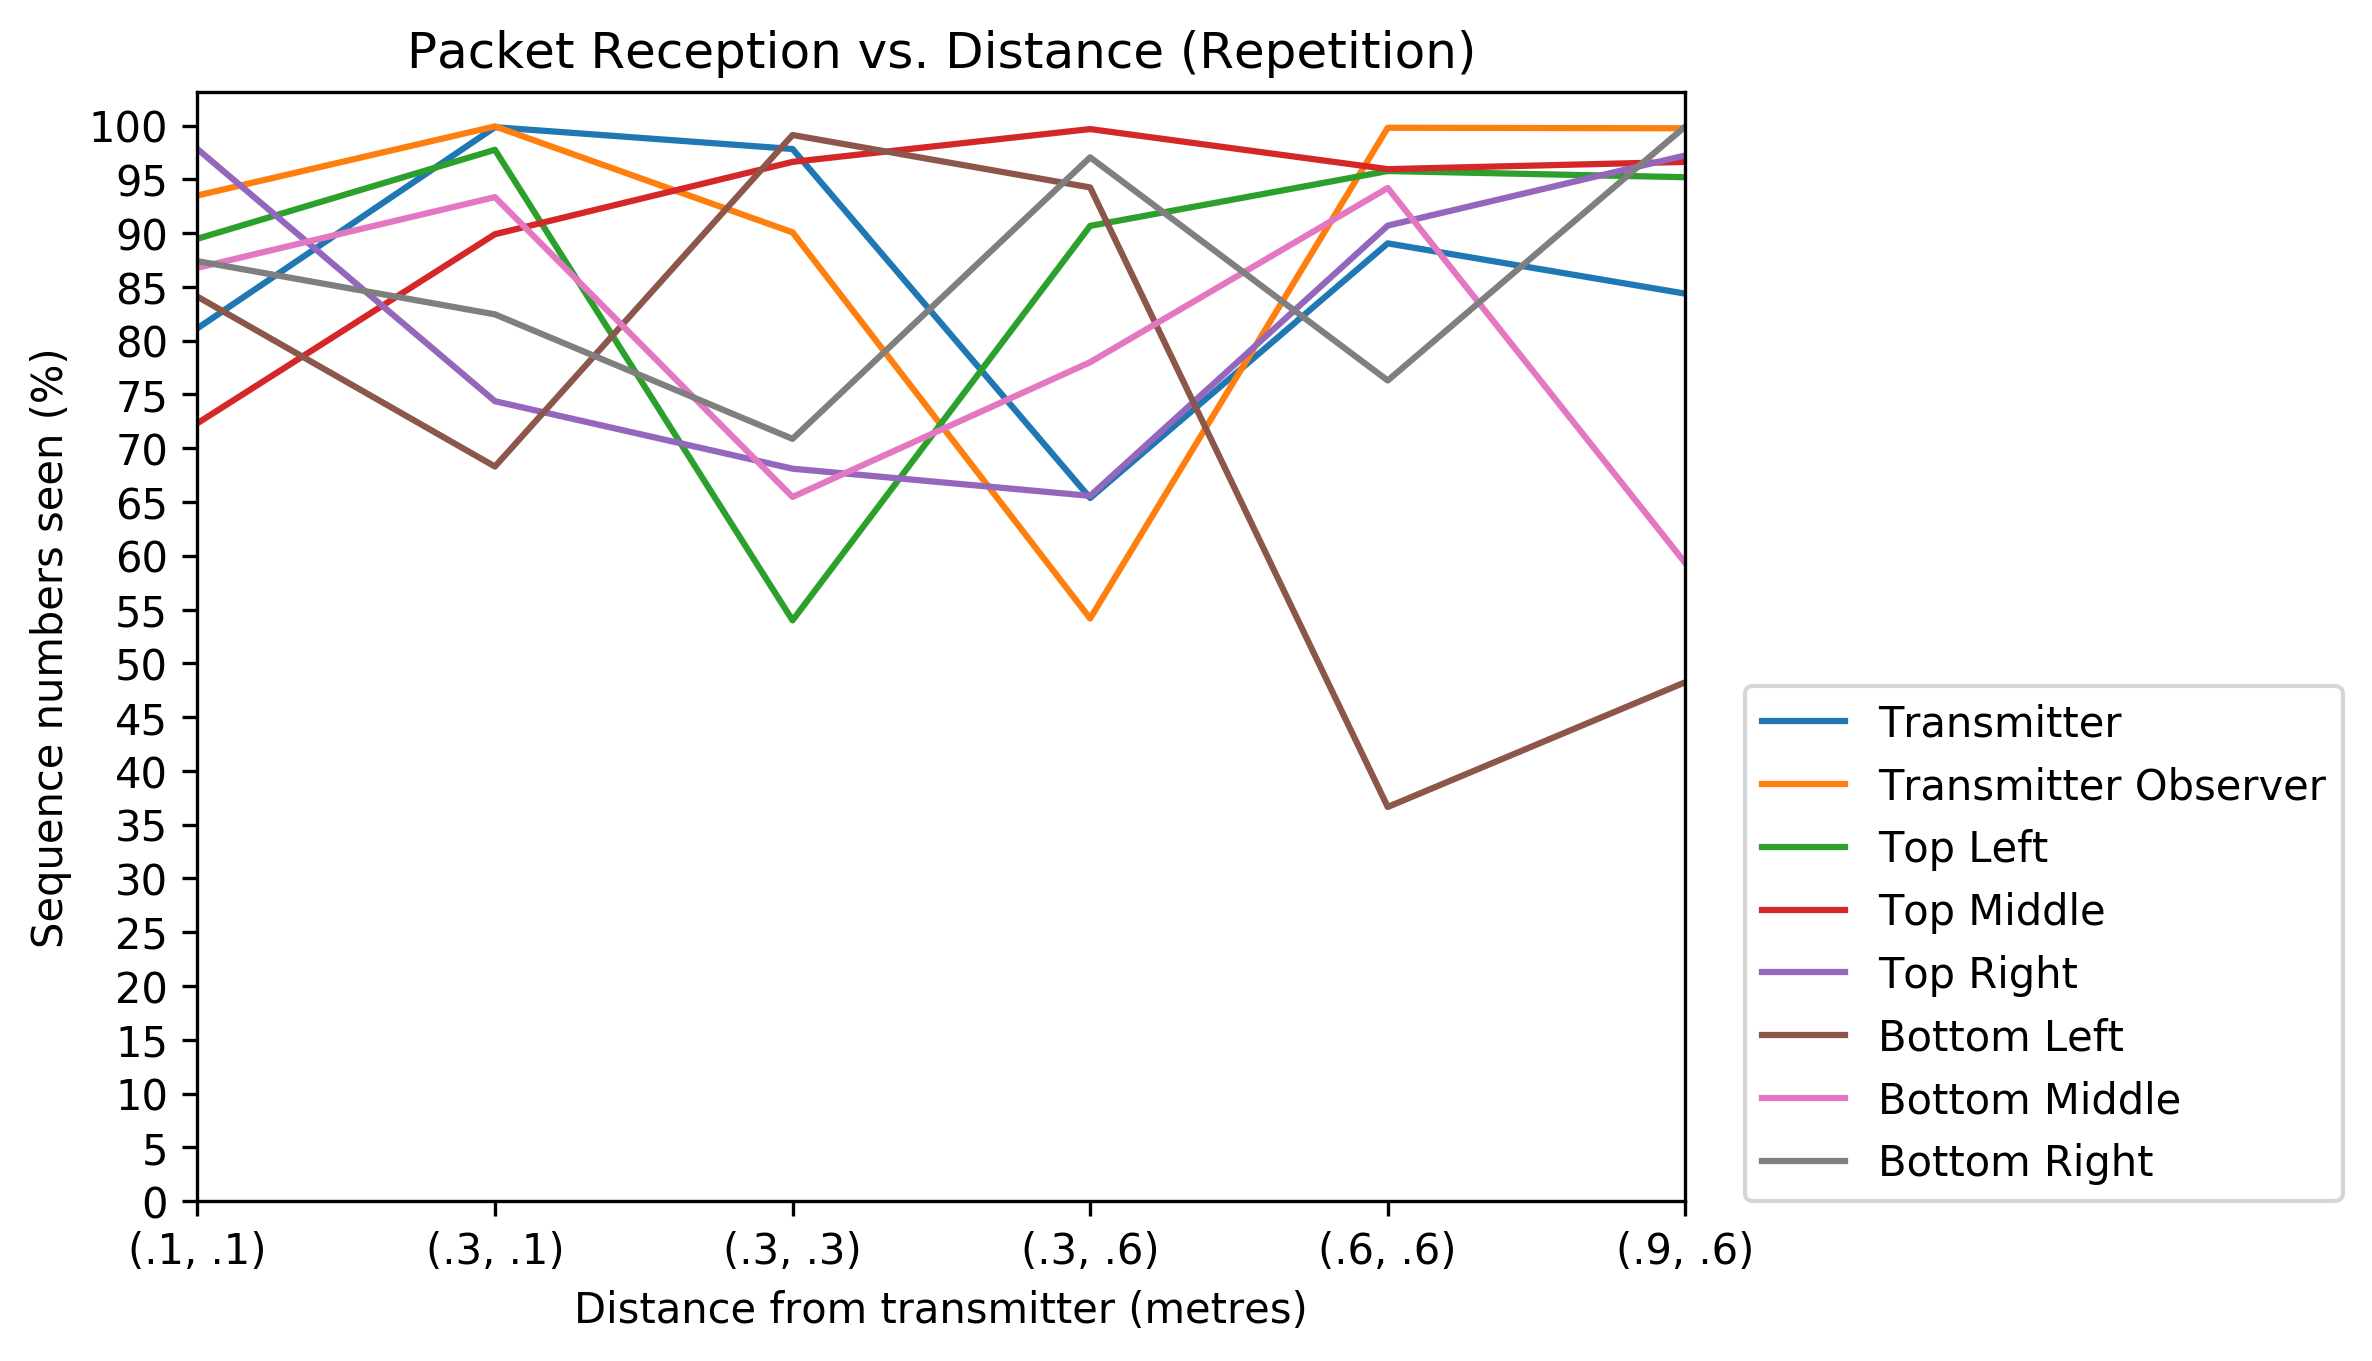
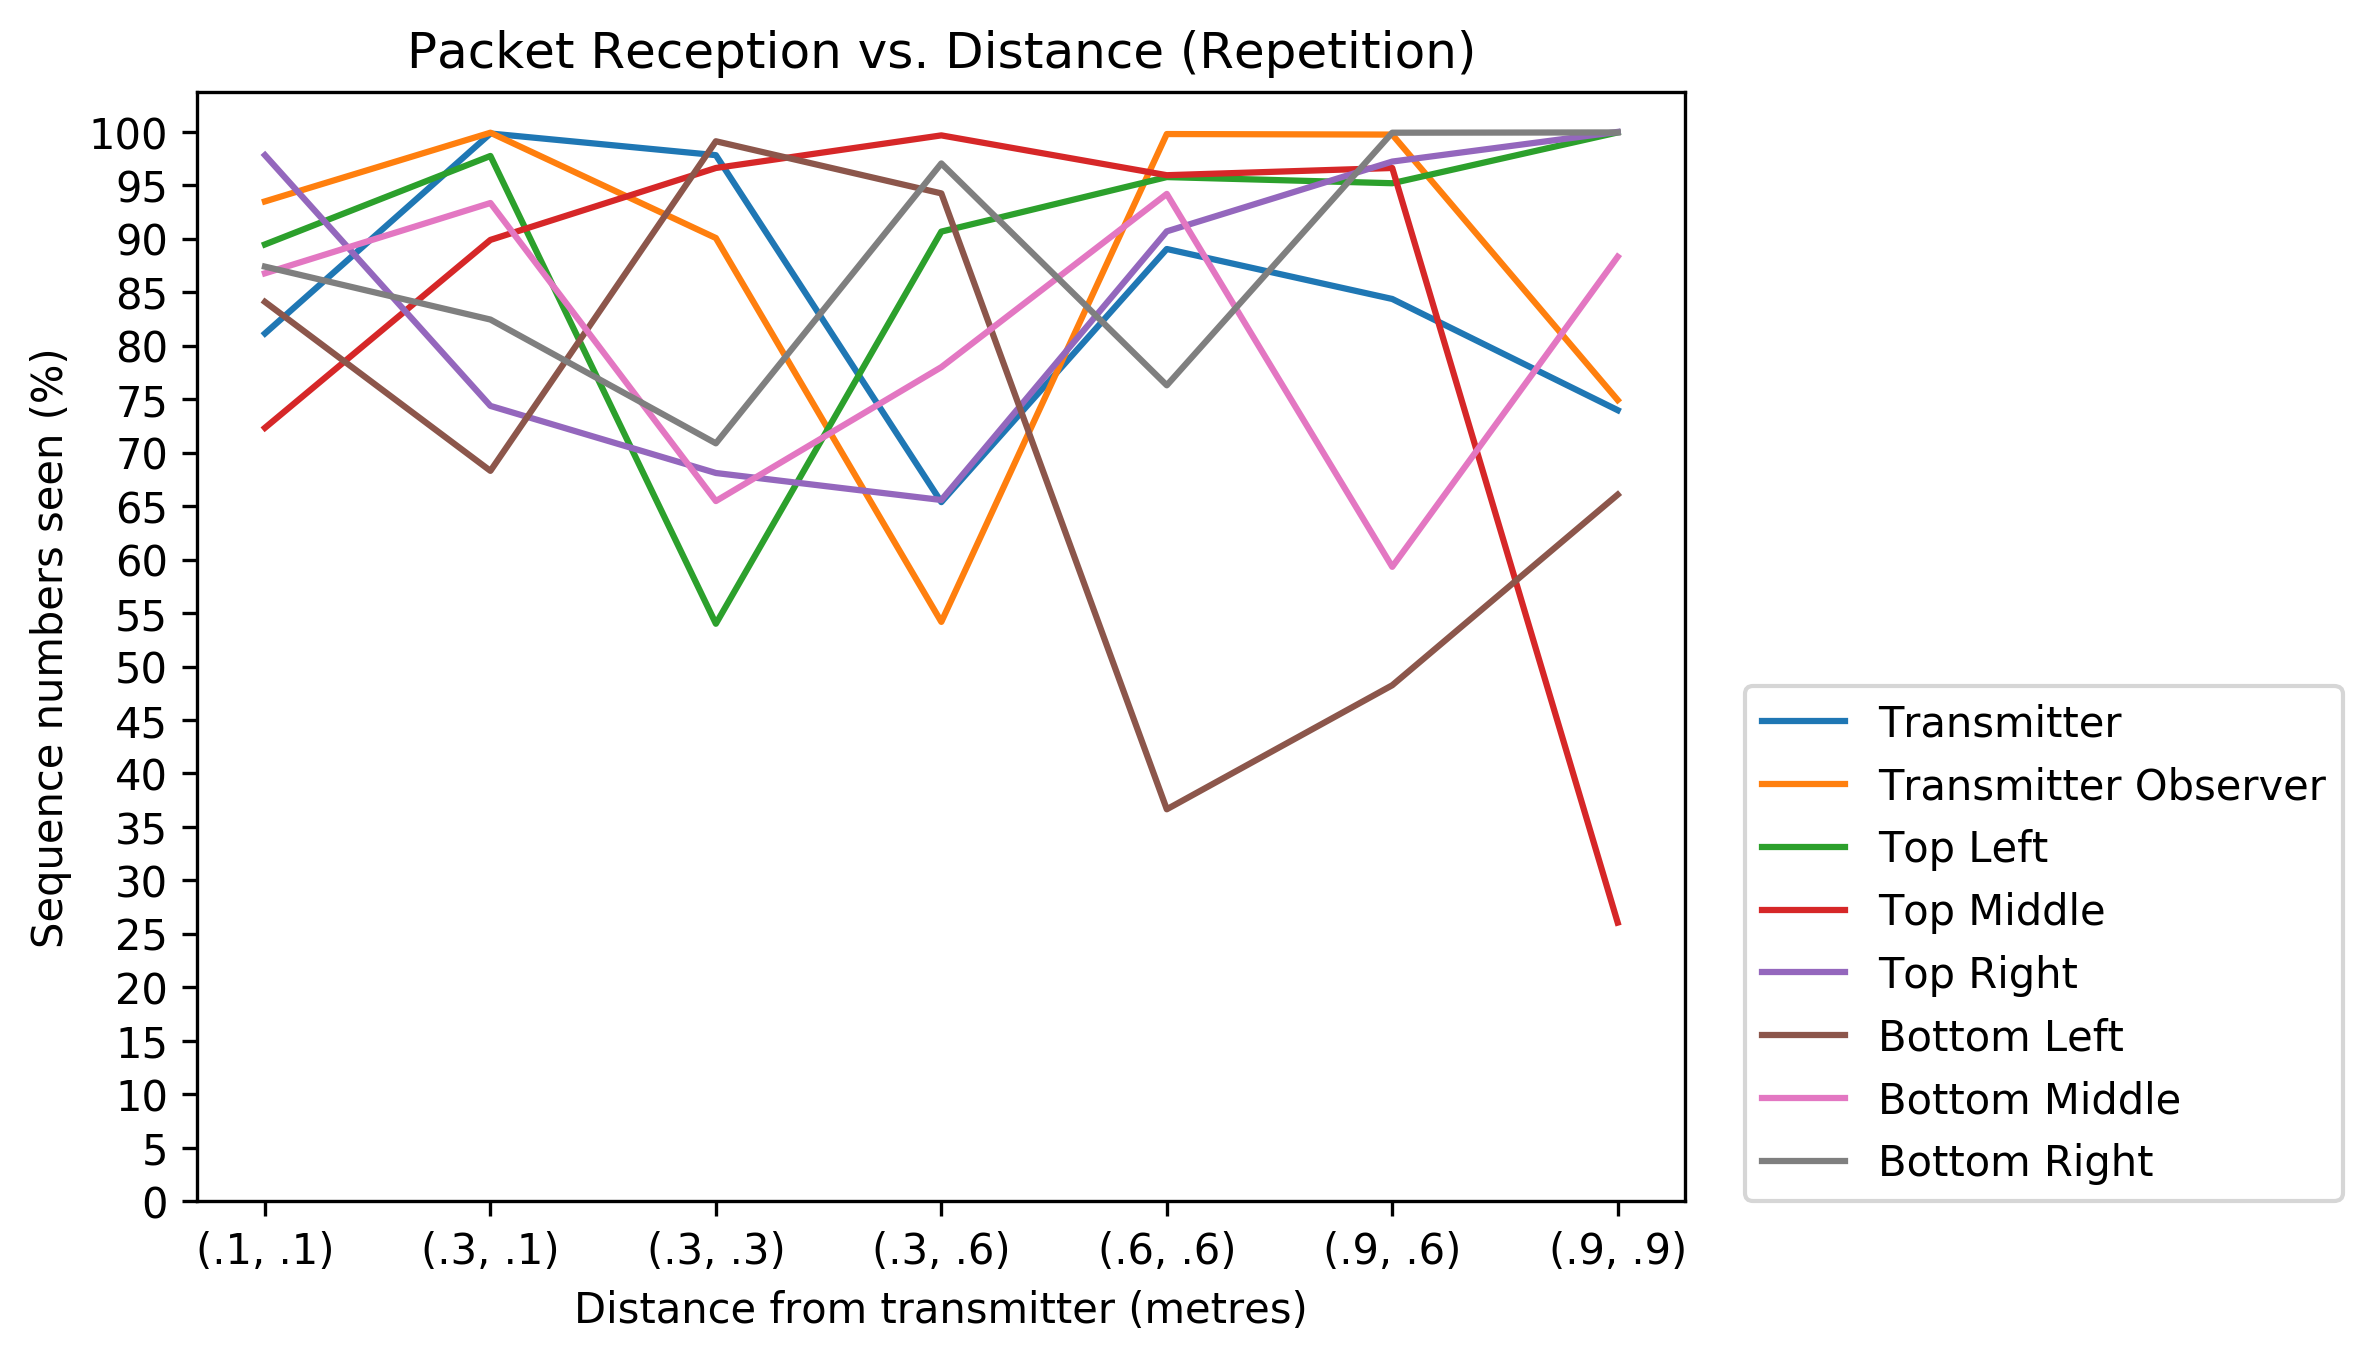
correct off by one
Was missing one data point on tie series graphs.

diff --git a/results/time_series.py b/results/time_series.py
@@ -172,7 +172,7 @@ current_map = mapping[str(cfg)]
 
 labels = []
 
-for i in range(1,len(current_map["order_map"].keys())):
+for i in range(1,len(current_map["order_map"].keys()) + 1):
     # print(cfg)
     extract_test_results(cfg, i)
     # print(summary)
